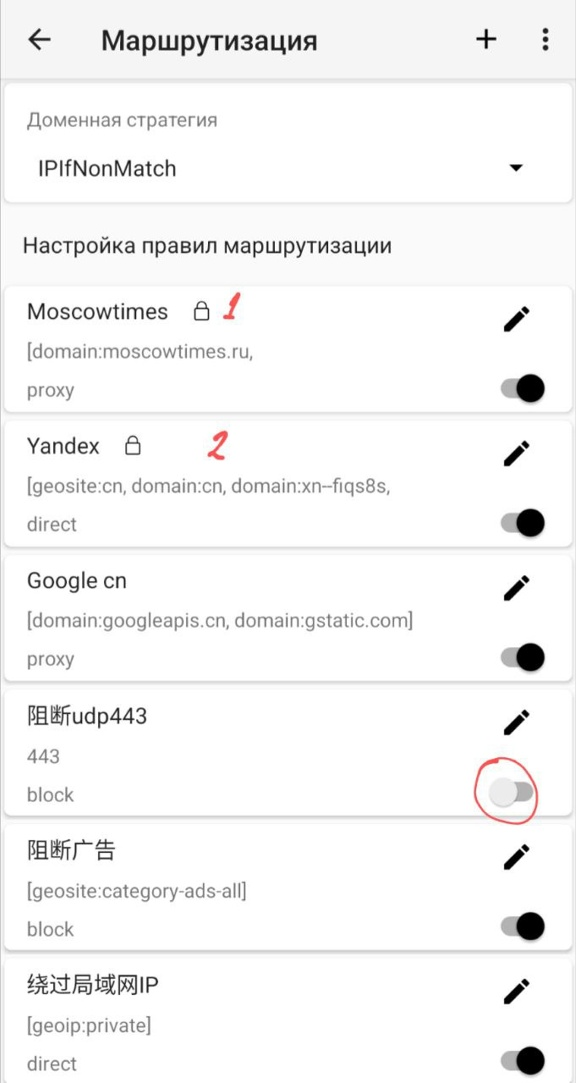
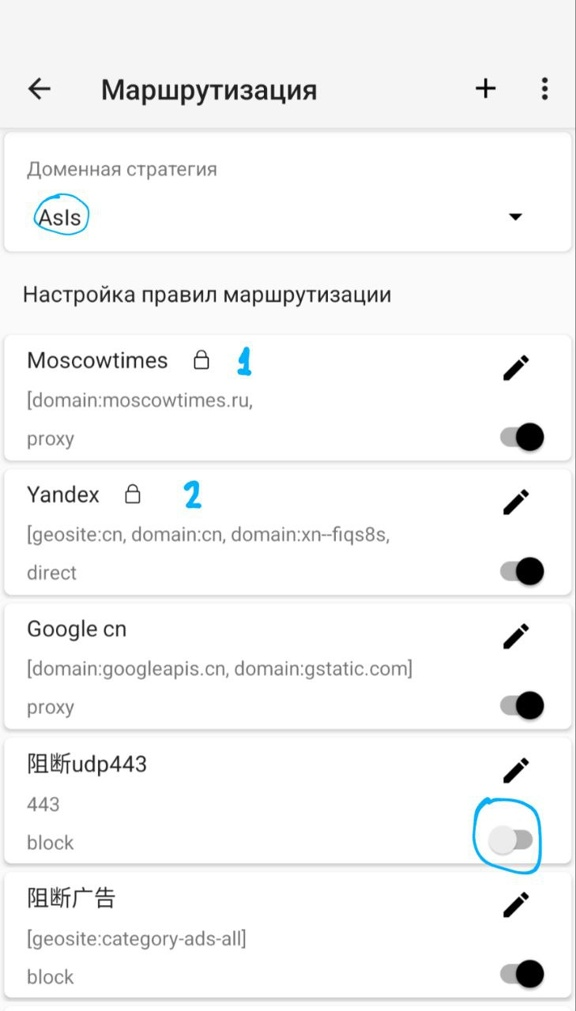
fix v2rayng settings for tor browser

diff --git a/V2RayNG.ru.md b/V2RayNG.ru.md
@@ -19,6 +19,8 @@
 
 Для работы голосовых чатов (Discord) может потребоваться выключить правило маршрутизации udp443, блокирующее протокол UDP.
 
+Для того, чтобы Tor Browser мог подключаться через v2rayng, нужно в Маршрутизации v2rayng доменную стратегию сменить на "AsIs".
+
 ![](figs/v2ray-1.jpg)
 
 ![](figs/v2ray-2.jpg)
